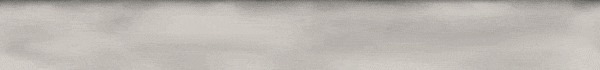
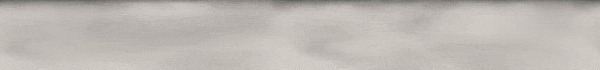
CapiRun: laat het zandpad meebewegen, voor een echt rennen-gevoel
De grondstrook was nog een los, stilstaand plaatje. Nu is het een naadloos
herhalende tegel (elke biome-kleur opnieuw naadloos gemaakt) die in de
game-loop continu horizontaal verschuift met exact dezelfde snelheid als
de obstakels -- dat is wat er "onder de capibara" bewoog in de originele
beleving en ontbrak sindsdien.

Technisch: van een los <img> naar een <div> met een herhalend
achtergrondplaatje, waarvan background-position-x elke frame met
speed*dt wordt bijgewerkt (zelfde speed-variabele als de obstakels
gebruiken, dus alles blijft synchroon). Reset bij elk nieuw potje.

Claude-Session: https://claude.ai/code/session_01KBBgG8W5CcEUdBjnDyQc6u

diff --git a/public/index.html b/public/index.html
@@ -474,7 +474,10 @@
      mee per biome zodat hij niet als los, neutraal element oogt. Samen
      bepalen ze de (variabele) hoogte van het speelveld. */
   .capirun-sky{ display:block; width:100%; height:auto; }
-  .capirun-ground{ display:block; width:100%; height:66px; object-fit:cover; }
+  /* Naadloos herhalende tegel, horizontaal meegeschoven in de game-loop
+     (zie updateGroundScroll) zodat het pad onder de capibara meebeweegt --
+     dat verkoopt het gevoel van rennen veel beter dan een stilstaand pad. */
+  .capirun-ground{ display:block; width:100%; height:66px; background-repeat:repeat-x; background-size:auto 66px; }
   .capirun-hud{ position:absolute; top:8px; right:10px; z-index:5; pointer-events:none; }
   .capirun-hud-inner{ background: rgba(250,245,230,.88); border-radius:8px; padding:5px 10px; box-shadow:0 2px 4px rgba(0,0,0,.15); }
   .capirun-score{ font-family:'DM Sans', monospace; font-weight:700; font-size:16px; color: var(--ink); text-align:right; }
@@ -1001,7 +1004,7 @@
       <button class="lightbox-close" id="capiRunCloseBtn" style="position:absolute;top:10px;right:10px;z-index:20;">×</button>
       <div class="capirun-stage" id="capiRunStage">
         <img class="capirun-sky" id="capiRunSky" src="game-assets/capirun_sky_meadow.jpg" alt="">
-        <img class="capirun-ground" id="capiRunGround" src="game-assets/capirun_ground_meadow.jpg" alt="">
+        <div class="capirun-ground" id="capiRunGround" style="background-image:url('game-assets/capirun_ground_meadow.jpg');"></div>
         <div class="capirun-hud"><div class="capirun-hud-inner">
           <div class="capirun-score" id="capiRunScore">0</div>
           <div class="capirun-best">TOPSCORE <span id="capiRunBest">0</span></div>
@@ -8539,6 +8542,7 @@ checkForInviteLink();
   let score = 0, best = 0;
   let stageWidthPx = 360;
   let rafId = null;
+  let groundScrollX = 0; // schuift met dezelfde snelheid als de obstakels mee, voor het rennen-gevoel
 
   // Stenen zijn overal bruikbaar (neutraal, geen dier), en zijn qua vorm
   // redelijk egaal gevuld -- het botsingsvak mag daarom de volledige
@@ -8585,7 +8589,7 @@ checkForInviteLink();
     if(idx === currentBiomeIndex) return;
     currentBiomeIndex = idx;
     skyEl.src = 'game-assets/' + BIOMES[idx].sky;
-    groundEl.src = 'game-assets/' + BIOMES[idx].ground;
+    groundEl.style.backgroundImage = `url('game-assets/${BIOMES[idx].ground}')`;
   }
 
   try{ best = parseInt(localStorage.getItem(CAPIRUN_BEST_KEY), 10) || 0; }catch(e){ best = 0; }
@@ -8607,6 +8611,7 @@ checkForInviteLink();
     obstacles = [];
     y = 0; vy = 0; onGround = true;
     score = 0; scoreEl.textContent = '00000';
+    groundScrollX = 0; groundEl.style.backgroundPositionX = '0px';
     updateBiome(0);
     spawnTimer = 0; nextSpawnAt = 900 + Math.random()*400;
     pendingDoubleSpawnAt = null;
@@ -8669,6 +8674,12 @@ checkForInviteLink();
     scoreEl.textContent = String(Math.floor(score)).padStart(5,'0');
     updateBiome();
     const speed = 190 + Math.min(score, 3000) * 0.09; // wordt geleidelijk sneller
+
+    // het pad onder de capibara schuift met dezelfde snelheid mee als de
+    // obstakels -- dat verkoopt het rennen veel overtuigender dan een
+    // stilstaand pad
+    groundScrollX -= speed * dt;
+    groundEl.style.backgroundPositionX = groundScrollX + 'px';
 
     // fysica van de sprong
     if(!onGround){

diff --git a/public/sw.js b/public/sw.js
@@ -2,7 +2,7 @@
 // Bump this version whenever you upload a new build; the old cache is then
 // thrown away automatically so players get the new version instead of a
 // stale copy from their phone.
-const CACHE = 'beastchain-v8';
+const CACHE = 'beastchain-v9';
 
 const APP_SHELL = [
   './',
